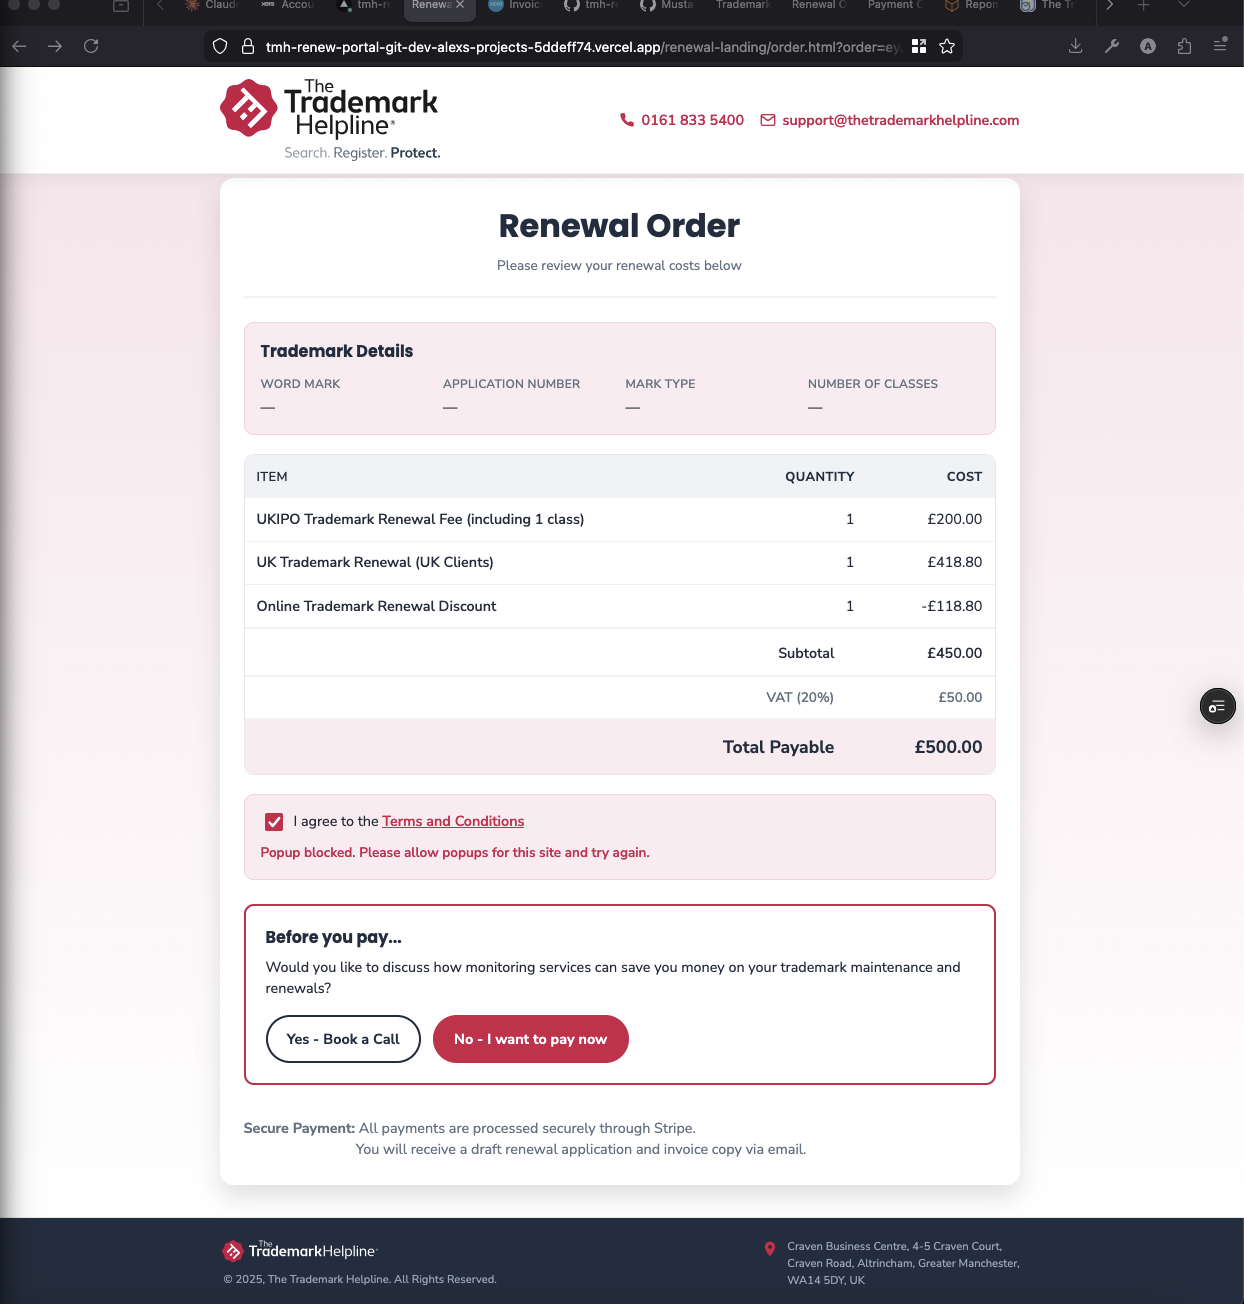
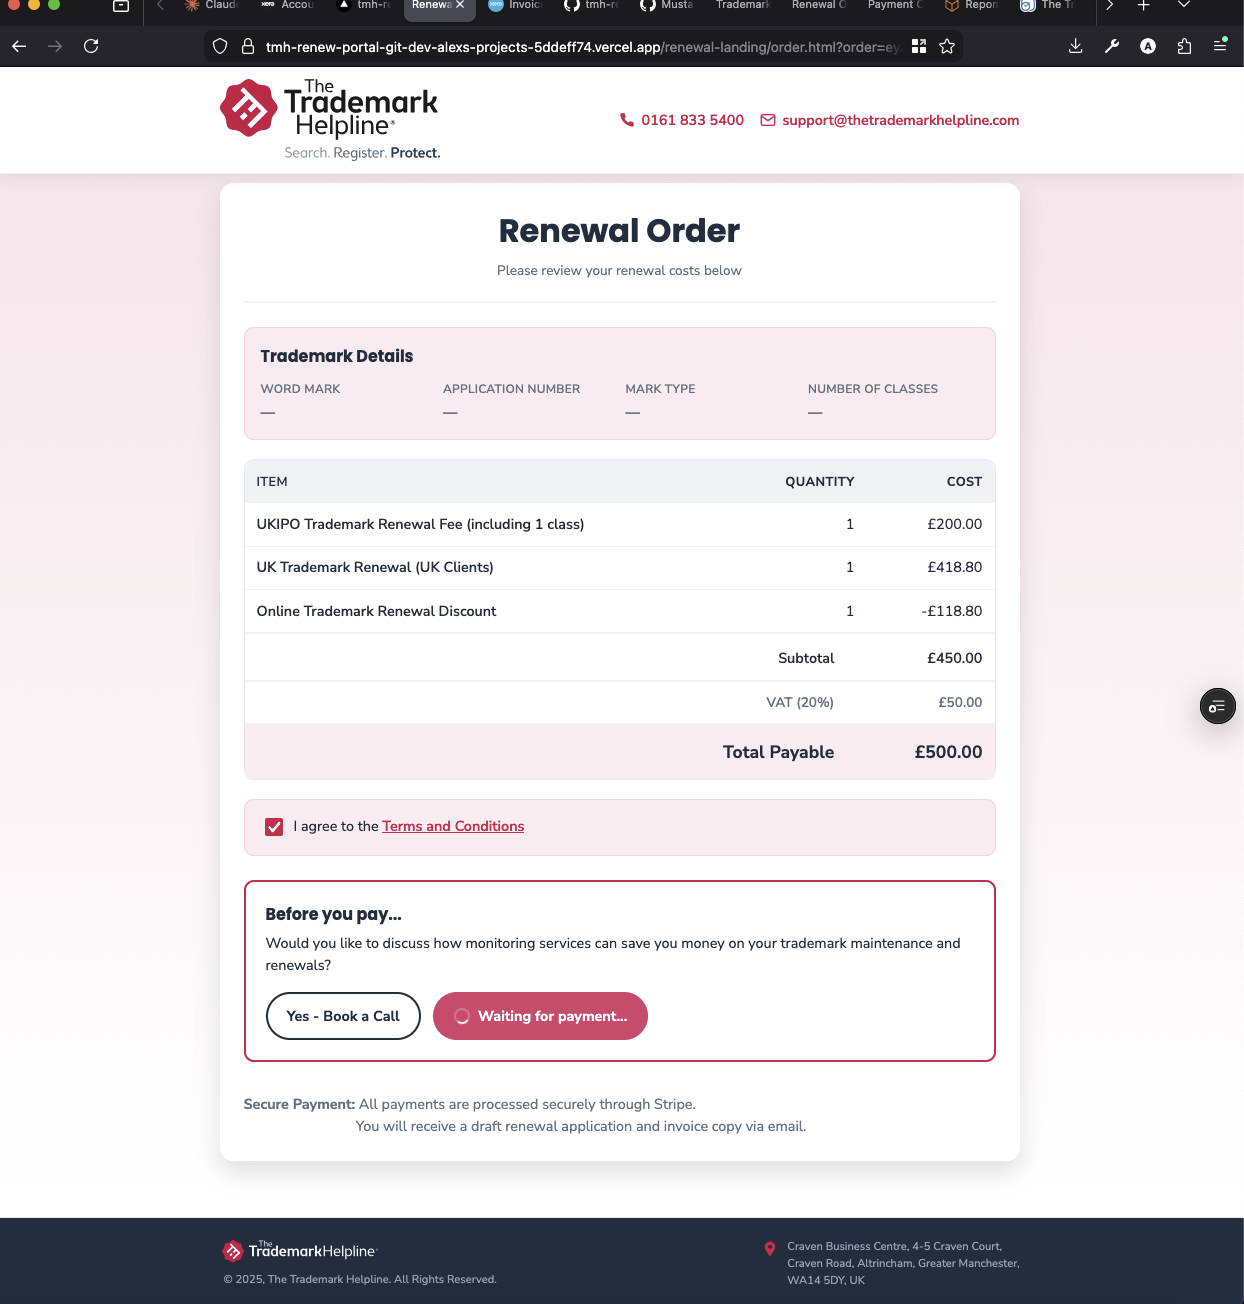
payment flow

diff --git a/public/renewal-landing/order.js b/public/renewal-landing/order.js
@@ -92,12 +92,15 @@ const paymentStatusElements = {
   panel: document.getElementById('payment-status-panel'),
   title: document.getElementById('payment-status-title'),
   message: document.getElementById('payment-status-message'),
-  actions: document.getElementById('payment-status-actions')
+  actions: document.getElementById('payment-status-actions'),
+  upsell: document.querySelector('.monitoring-upsell')
 };
 
 let recheckButtonRef = null;
 const auxiliaryState = {
-  bookCallBtn: document.getElementById('book-call-btn')
+  bookCallBtn: document.getElementById('book-call-btn'),
+  termsCheckbox: document.getElementById('terms-checkbox'),
+  termsLabel: document.querySelector('.terms-checkbox')
 };
 const payNowButtonState = {
   button: null,
@@ -110,25 +113,29 @@ const TERMINAL_STATUS_CONTENT = {
     tone: 'danger',
     title: 'Invoice cancelled',
     message: 'This invoice was cancelled.',
-    actions: ['offer', 'contact']
+    actions: ['offer', 'contact'],
+    replaceUpsell: true
   },
   [PAYMENT_STATUS.NOT_FOUND]: {
     tone: 'danger',
     title: 'Payment link unavailable',
     message: 'This payment link is no longer available.',
-    actions: ['offer', 'contact']
+    actions: ['offer', 'contact'],
+    replaceUpsell: true
   },
   [PAYMENT_STATUS.FAILED]: {
     tone: 'warning',
     title: 'Payment not completed',
     message: 'Payment was not completed.',
-    actions: ['reopen', 'recheck', 'contact']
+    actions: ['reopen', 'recheck', 'contact'],
+    replaceUpsell: true
   },
   [PAYMENT_STATUS.TIMEOUT]: {
     tone: 'warning',
     title: 'Payment not detected',
     message: 'We didn’t detect a completed payment.',
-    actions: ['reopen', 'recheck', 'contact']
+    actions: ['reopen', 'recheck', 'contact'],
+    replaceUpsell: true
   }
 };
 
@@ -267,6 +274,18 @@ function setAuxiliaryActionsDisabled(isDisabled) {
       }
     }
   }
+
+  const termsCheckbox = auxiliaryState.termsCheckbox || document.getElementById('terms-checkbox');
+  if (termsCheckbox) {
+    auxiliaryState.termsCheckbox = termsCheckbox;
+    termsCheckbox.disabled = isDisabled;
+  }
+
+  const termsLabel = auxiliaryState.termsLabel || document.querySelector('.terms-checkbox');
+  if (termsLabel) {
+    auxiliaryState.termsLabel = termsLabel;
+    termsLabel.classList.toggle('is-disabled', isDisabled);
+  }
 }
 
 function clearPendingBannerTimer() {
@@ -277,8 +296,7 @@ function clearPendingBannerTimer() {
 }
 
 function schedulePendingBanner(remainingMs) {
-  if (paymentState.pendingBannerShown) return;
-  clearPendingBannerTimer();
+  if (paymentState.pendingBannerShown || paymentState.bannerTimeoutId) return;
   const delay =
     typeof remainingMs === 'number'
       ? Math.max(remainingMs, 0)
@@ -295,9 +313,15 @@ function showPendingBanner() {
   showPaymentStatusPanel({
     tone: 'info',
     title: 'Waiting for your payment...',
-    message: 'We’re waiting for your payment to complete in the other tab. This page will update automatically.'
+    message: 'We’re waiting for your payment to complete in the other tab. This page will update automatically.',
+    replaceUpsell: false
   });
   paymentState.pendingBannerShown = true;
+}
+
+function resetPendingBannerState() {
+  clearPendingBannerTimer();
+  paymentState.pendingBannerShown = false;
 }
 
 function rememberOfferUrl() {
@@ -385,7 +409,7 @@ function renderStatusActions(actionKeys = []) {
 
 function showPaymentStatusPanel(config = {}) {
   if (!paymentStatusElements.panel) return;
-  const { tone = 'info', title = '', message = '', actions = [] } = config;
+  const { tone = 'info', title = '', message = '', actions = [], replaceUpsell = false } = config;
   paymentStatusElements.panel.hidden = false;
   paymentStatusElements.panel.classList.add('is-visible');
   paymentStatusElements.panel.classList.remove('is-info', 'is-warning', 'is-danger');
@@ -402,6 +426,11 @@ function showPaymentStatusPanel(config = {}) {
   }
 
   renderStatusActions(actions);
+
+  if (paymentStatusElements.upsell) {
+    paymentStatusElements.upsell.hidden = replaceUpsell;
+    paymentStatusElements.upsell.setAttribute('aria-hidden', replaceUpsell ? 'true' : 'false');
+  }
 }
 
 function hidePaymentStatusPanel() {
@@ -412,6 +441,10 @@ function hidePaymentStatusPanel() {
   if (paymentStatusElements.message) paymentStatusElements.message.textContent = '';
   if (paymentStatusElements.actions) paymentStatusElements.actions.innerHTML = '';
   recheckButtonRef = null;
+  if (paymentStatusElements.upsell) {
+    paymentStatusElements.upsell.hidden = false;
+    paymentStatusElements.upsell.setAttribute('aria-hidden', 'false');
+  }
 }
 
 function getElapsedTime() {
@@ -573,7 +606,7 @@ function stopPaymentMonitoring(options = {}) {
     clearTimeout(paymentState.pollTimeoutId);
     paymentState.pollTimeoutId = null;
   }
-  clearPendingBannerTimer();
+  resetPendingBannerState();
   paymentState.active = false;
   paymentState.inFlight = false;
   if (!options.keepPanel) {
@@ -586,7 +619,7 @@ function startPaymentMonitoring(token, paymentUrl, { resetStartTime = true } = {
   stopPaymentMonitoring();
   paymentState.token = token;
   paymentState.paymentUrl = paymentUrl;
-  paymentState.pendingBannerShown = false;
+  resetPendingBannerState();
   paymentState.timedOut = false;
   paymentState.active = true;
   paymentState.manualRecheckInFlight = false;
@@ -669,9 +702,8 @@ async function handleManualRecheck() {
 
     if (status === PAYMENT_STATUS.PENDING && !paymentState.timedOut) {
       paymentState.active = true;
-      paymentState.pendingBannerShown = false;
+      resetPendingBannerState();
       hidePaymentStatusPanel();
-      clearPendingBannerTimer();
       schedulePendingBanner();
       setPayNowButtonMode('waiting', 'Waiting for payment...');
       scheduleNextPoll();

diff --git a/public/renewal-landing/order-styles.css b/public/renewal-landing/order-styles.css
@@ -319,6 +319,19 @@ main {
   accent-color: var(--brand-pink);
 }
 
+.terms-checkbox.is-disabled,
+.terms-checkbox.is-disabled * {
+  cursor: not-allowed !important;
+}
+
+.terms-checkbox.is-disabled input[type="checkbox"] {
+  opacity: 0.6;
+}
+
+.terms-checkbox.is-disabled span {
+  opacity: 0.7;
+}
+
 .terms-checkbox span {
   flex: 1;
 }
